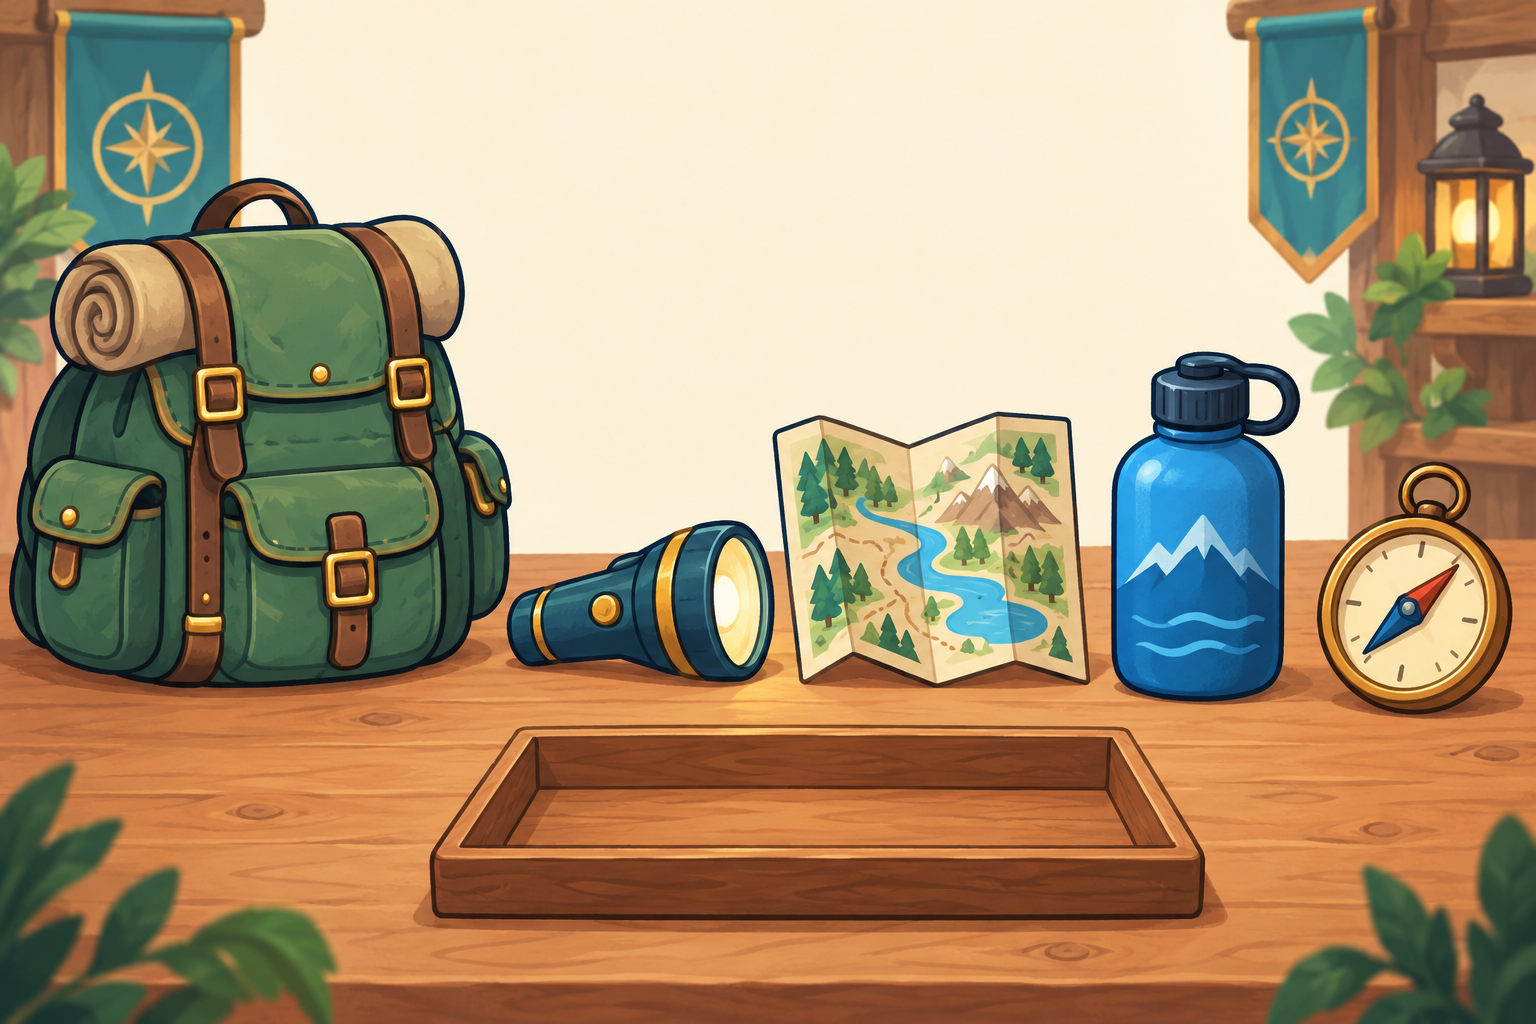
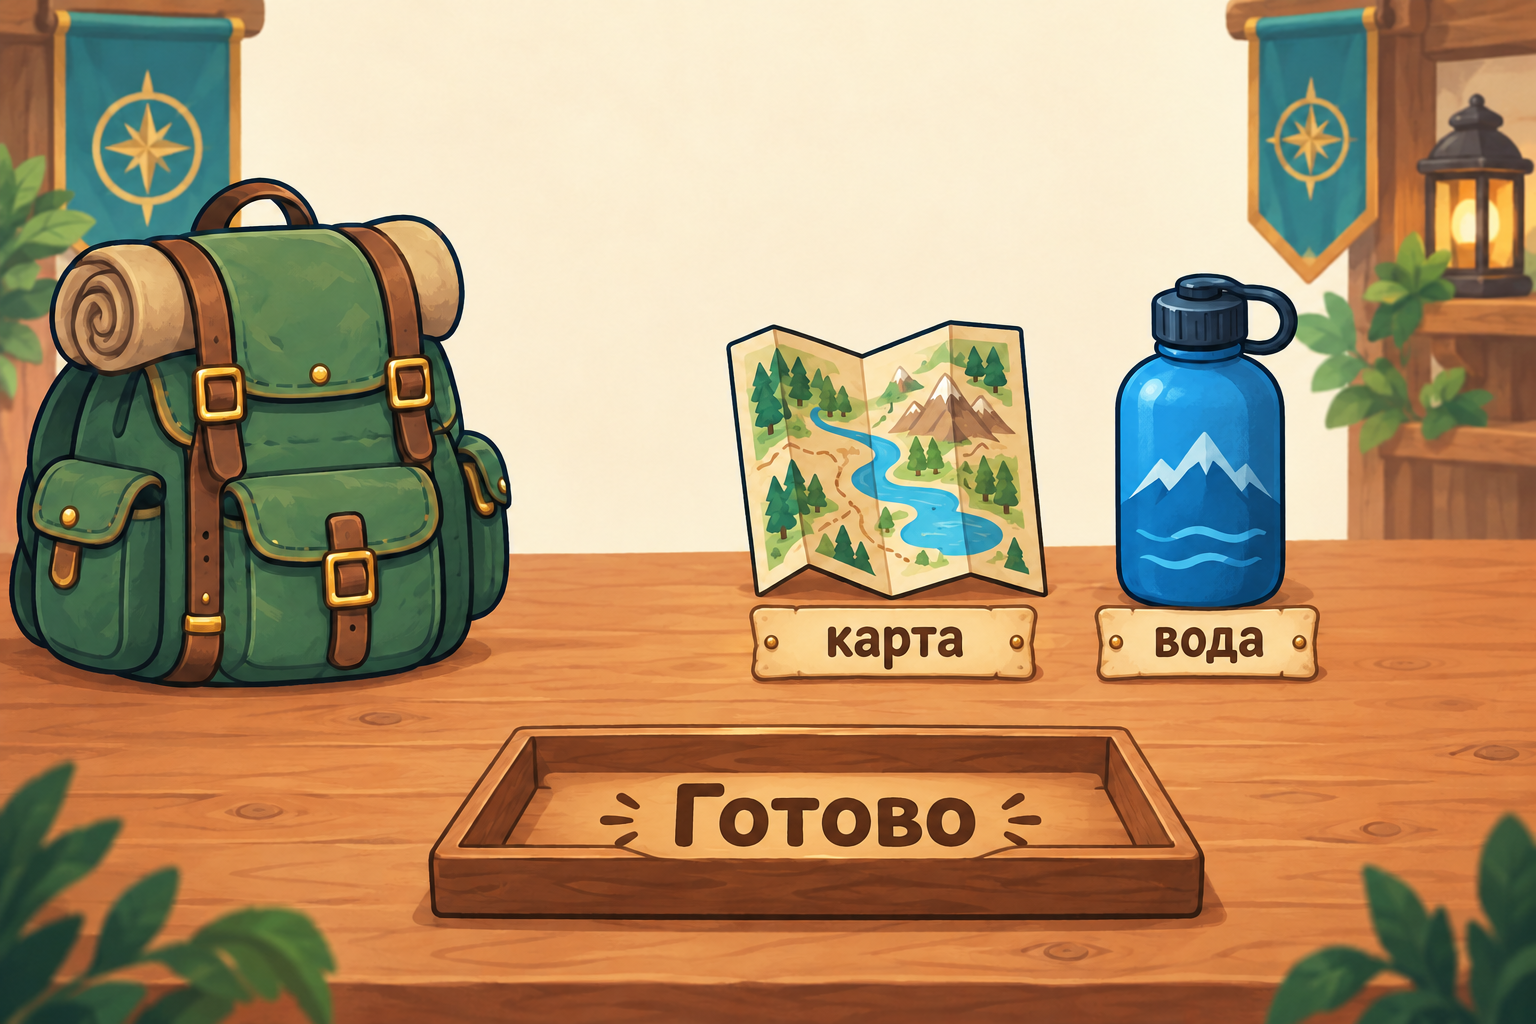
content: подписи на иллюстрациях

diff --git a/docs/lessons/python/08-loops/README.md b/docs/lessons/python/08-loops/README.md
@@ -11,7 +11,7 @@
 - `lesson.json`: полный контент в формате LessonContentSchema. Это резервная сборка для проверки, а не отдельная команда публикации.
 - `public/lessons/python/08-loops/`: иллюстрации. В Markdown используются адреса `/lessons/python/08-loops/*.png`.
 
-Иллюстрации взяты из пользовательской папки «Урок_08_Циклы/images» без изменения. Задания переработаны по сценарию учителя «Урок_08_Циклы_и_списки». Реальные данные учеников не используются.
+Иллюстрации взяты из пользовательской папки «Урок_08_Циклы/images»; пустые таблички заполнены подписями и значениями из урока. Задания переработаны по сценарию учителя «Урок_08_Циклы_и_списки». Реальные данные учеников не используются.
 
 ## Добавление через админку
 

diff --git a/docs/lessons/python/08-loops/theory.md b/docs/lessons/python/08-loops/theory.md
@@ -152,16 +152,16 @@ for name in names:
 ![Мешки сокровищ для общей копилки](/lessons/python/08-loops/q06.png)
 
 ```python
-coins = [2, 5, 3]
+coins = [2, 5, 3, 1, 4]
 total = 0
 for coin in coins:
     total = total + coin
 print(total)
 ```
 
-Копилка меняется так: **0 → 2 → 7 → 10**. Ноль задаём до цикла, иначе каждый шаг начнётся с пустой копилки.
+Копилка меняется так: **0 → 2 → 7 → 10 → 11 → 15**. Ноль задаём до цикла, иначе каждый шаг начнётся с пустой копилки.
 
-**Предскажи:** если убрать последнюю монету, получим 7. Именно так программа может собирать общий счёт из нескольких наград.
+**Предскажи:** если убрать последнюю монету, получим 11. Именно так программа может собирать общий счёт из нескольких наград.
 
 ## 10. Секретный маршрут: чемпион и отряд
 
